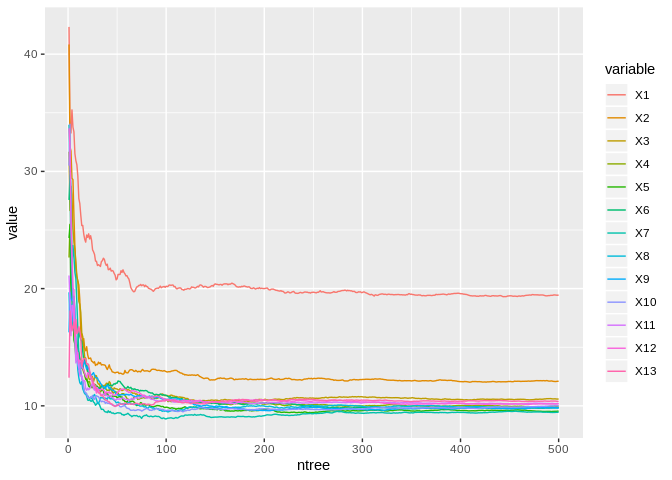
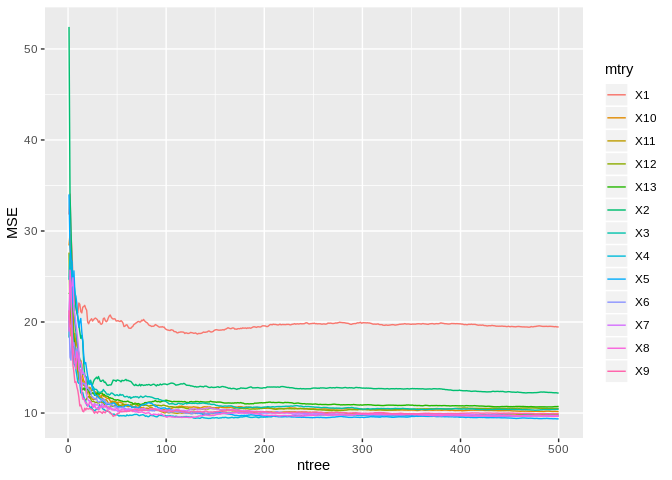
finished problem 8

diff --git a/ch8/ch8_exercises.md b/ch8/ch8_exercises.md
@@ -6,9 +6,18 @@ January 6, 2019
 ``` r
 library(tidyverse)
 library(gbm)
+library(tree)
 library(randomForest)
 library(ISLR)
 library(MASS)
+```
+
+MSE function
+
+``` r
+MSE <- function(x,y){
+    mean((x - y)^2)
+}
 ```
 
 Applied
@@ -21,7 +30,7 @@ rf_bos <- randomForest(medv~., Boston, ntree=500, mtry=13, importance=T)
 plot(rf_bos)
 ```
 
-![](ch8_exercises_files/figure-markdown_github/unnamed-chunk-2-1.png)
+![](ch8_exercises_files/figure-markdown_github/unnamed-chunk-3-1.png)
 
 So I tried for a good 45 minutes to do this in a for loop and as a function but no luck. The output of randomForest can't be stored in a data.frame.
 
@@ -43,19 +52,19 @@ head(mse)
 ```
 
     ##         X1       X2       X3       X4       X5       X6       X7       X8
-    ## 1 42.32633 40.82609 31.67636 22.65098 24.31935 27.56375 33.98095 19.68960
-    ## 2 33.49513 32.09343 26.66919 25.48647 25.44164 29.66825 30.05285 16.67828
-    ## 3 33.27780 31.73664 28.72119 23.27853 19.16801 22.87034 28.54448 17.18458
-    ## 4 35.24469 29.41262 28.02290 19.28510 20.00139 18.97133 22.04812 18.64893
-    ## 5 33.78076 29.30297 25.15037 18.81083 18.70354 16.64035 23.67574 16.81549
-    ## 6 33.37191 26.29239 23.96572 17.26571 15.58780 17.01894 22.71426 16.77705
+    ## 1 31.80872 52.42473 18.28603 24.63975 34.02078 20.82501 20.17224 18.95064
+    ## 2 34.04987 34.21041 25.00775 27.40268 28.23370 16.13734 23.61439 25.68817
+    ## 3 29.75503 30.18289 25.98576 22.67575 26.81627 15.80643 23.87533 24.22175
+    ## 4 27.75409 26.00290 23.14605 20.54429 26.63956 18.48176 24.00164 19.34626
+    ## 5 24.88952 24.34133 21.63823 18.32254 22.09555 17.41297 24.85599 17.26936
+    ## 6 24.20768 24.24671 21.86109 15.38011 25.61217 17.75042 21.37371 16.42574
     ##         X9      X10      X11      X12      X13 ntree
-    ## 1 16.26842 30.49106 21.12034 33.67282 12.40003     1
-    ## 2 19.69358 34.02152 18.97160 31.97064 18.08671     2
-    ## 3 19.17191 25.04710 15.98070 26.12923 17.28112     3
-    ## 4 19.01576 22.25504 18.57428 22.89227 16.39696     4
-    ## 5 19.00369 19.29042 18.51711 20.04980 16.71555     5
-    ## 6 19.34383 16.84488 17.24681 19.92728 17.14615     6
+    ## 1 21.27642 28.41122 20.69694 27.62397 23.07290     1
+    ## 2 19.46439 29.64176 18.47396 20.20069 23.29881     2
+    ## 3 19.63887 23.15113 24.18391 22.26955 23.33454     3
+    ## 4 17.95513 23.11587 19.66064 18.61263 21.92456     4
+    ## 5 15.27002 21.50509 19.29295 18.50928 18.82777     5
+    ## 6 14.47486 18.76671 18.32341 17.65219 18.09505     6
 
 Creates a graph of MSE for each mtry.
 
@@ -65,12 +74,12 @@ head(long)
 ```
 
     ##   ntree mtry    value
-    ## 1     1   X1 42.32633
-    ## 2     2   X1 33.49513
-    ## 3     3   X1 33.27780
-    ## 4     4   X1 35.24469
-    ## 5     5   X1 33.78076
-    ## 6     6   X1 33.37191
+    ## 1     1   X1 31.80872
+    ## 2     2   X1 34.04987
+    ## 3     3   X1 29.75503
+    ## 4     4   X1 27.75409
+    ## 5     5   X1 24.88952
+    ## 6     6   X1 24.20768
 
 ``` r
 ggplot(long, aes(ntree, value, color=mtry)) +
@@ -78,7 +87,7 @@ ggplot(long, aes(ntree, value, color=mtry)) +
     ylab('MSE')
 ```
 
-![](ch8_exercises_files/figure-markdown_github/unnamed-chunk-4-1.png)
+![](ch8_exercises_files/figure-markdown_github/unnamed-chunk-5-1.png) MSE seems lo level off after 150 trees. X1 has the highest MSE of the mtry while X9 has the lowest minimum MSE.
 
 df conversion done with the reshape2 package.
 
@@ -102,4 +111,237 @@ ggplot(df, aes(ntree, value)) +
     geom_line(aes(color=variable))
 ```
 
-![](ch8_exercises_files/figure-markdown_github/unnamed-chunk-5-1.png)
+![](ch8_exercises_files/figure-markdown_github/unnamed-chunk-6-1.png)
+
+### 8
+
+1.  Training data is 3/4 of the Carseats data.
+
+``` r
+set.seed(5)
+
+train <- sample(1:nrow(Carseats), (3/4)*nrow(Carseats))
+test <- slice(Carseats, -train)
+train <- Carseats[train,]
+```
+
+1.  
+
+``` r
+reg_tree <- tree(Sales~., train)
+summary(reg_tree)
+```
+
+    ## 
+    ## Regression tree:
+    ## tree(formula = Sales ~ ., data = train)
+    ## Variables actually used in tree construction:
+    ## [1] "ShelveLoc"   "Price"       "Age"         "Advertising" "CompPrice"  
+    ## [6] "Population"  "Income"     
+    ## Number of terminal nodes:  20 
+    ## Residual mean deviance:  2.524 = 706.6 / 280 
+    ## Distribution of residuals:
+    ##    Min. 1st Qu.  Median    Mean 3rd Qu.    Max. 
+    ## -3.9850 -0.9850 -0.0560  0.0000  0.9744  5.0090
+
+Plot of tree
+
+``` r
+plot(reg_tree)
+text(reg_tree, cex=0.8, pretty=0)
+```
+
+![](ch8_exercises_files/figure-markdown_github/unnamed-chunk-9-1.png)
+
+MSE is around 4.57.
+
+``` r
+pred_carseats <- predict(reg_tree, test)
+MSE(pred_carseats, test$Sales)
+```
+
+    ## [1] 4.573537
+
+1.  Looks like the best tree size is 9.
+
+``` r
+set.seed(10)
+
+cv_tree <- cv.tree(reg_tree, FUN=prune.tree)
+cv_tree
+```
+
+    ## $size
+    ##  [1] 20 19 18 17 16 15 14 13 12 11 10  9  8  7  6  5  4  3  2  1
+    ## 
+    ## $dev
+    ##  [1] 1449.207 1483.818 1474.311 1501.462 1504.789 1510.086 1509.923
+    ##  [8] 1519.623 1514.920 1523.643 1518.617 1551.506 1657.301 1708.545
+    ## [15] 1718.140 1676.093 1845.327 1832.987 1936.100 2455.037
+    ## 
+    ## $k
+    ##  [1]      -Inf  24.97477  26.02050  29.80899  30.42954  30.46967  30.78367
+    ##  [8]  33.22207  39.05502  42.75892  45.93394  49.27407  61.42385  69.35358
+    ## [15]  71.05762  84.24680 120.97760 125.57046 272.16709 528.71924
+    ## 
+    ## $method
+    ## [1] "deviance"
+    ## 
+    ## attr(,"class")
+    ## [1] "prune"         "tree.sequence"
+
+``` r
+par(mfrow=c(1,2))
+plot(cv_tree$size, cv_tree$dev, type='b')
+plot(cv_tree$k, cv_tree$dev, type='b')
+```
+
+![](ch8_exercises_files/figure-markdown_github/unnamed-chunk-11-1.png)
+
+Running prune.tree with best=9
+
+``` r
+pruned <- prune.tree(reg_tree, best=9)
+
+plot(pruned)
+text(pruned, pretty=0)
+```
+
+![](ch8_exercises_files/figure-markdown_github/unnamed-chunk-12-1.png)
+
+Calculating MSE of pruned tree. We get a MSE of 3.74, which is roughly 0.8 lower than a reg tree. Pruning the tree does decrease the MSE.
+
+``` r
+pred_pruned <- predict(pruned, test)
+MSE(pred_pruned, test$Sales)
+```
+
+    ## [1] 3.740164
+
+1.  So I just need to remeber that I need to use the randomForest() where mtry = *p* in order to only do bagging.
+
+``` r
+set.seed(1)
+
+bag_car <- randomForest(Sales~., train, mtry=10, importance=TRUE)
+bag_car
+```
+
+    ## 
+    ## Call:
+    ##  randomForest(formula = Sales ~ ., data = train, mtry = 10, importance = TRUE) 
+    ##                Type of random forest: regression
+    ##                      Number of trees: 500
+    ## No. of variables tried at each split: 10
+    ## 
+    ##           Mean of squared residuals: 2.651691
+    ##                     % Var explained: 67.17
+
+``` r
+importance(bag_car)
+```
+
+    ##                %IncMSE IncNodePurity
+    ## CompPrice   31.5102047    258.198822
+    ## Income       5.7282685    111.437402
+    ## Advertising 23.1289063    215.273668
+    ## Population   0.1408167     85.478719
+    ## Price       61.3567059    720.401178
+    ## ShelveLoc   73.1567053    626.649235
+    ## Age         24.5676254    247.593006
+    ## Education    4.3458187     66.635900
+    ## Urban       -1.4207142      9.113515
+    ## US           4.4489013     19.060855
+
+We get a test MSE of 1.93. Which is lower than the training MSE of 2.65. Price, ShelveLoc & CompPrice are the most importance variables.
+
+``` r
+pred_bag <- predict(bag_car, test)
+
+MSE(pred_bag, test$Sales)
+```
+
+    ## [1] 1.932099
+
+1.  
+
+``` r
+set.seed(2)
+
+rf_car2 <- randomForest(Sales~., train, mtry=5, importance=T)
+rf_car2
+```
+
+    ## 
+    ## Call:
+    ##  randomForest(formula = Sales ~ ., data = train, mtry = 5, importance = T) 
+    ##                Type of random forest: regression
+    ##                      Number of trees: 500
+    ## No. of variables tried at each split: 5
+    ## 
+    ##           Mean of squared residuals: 2.77816
+    ##                     % Var explained: 65.6
+
+``` r
+importance(rf_car2)
+```
+
+    ##                %IncMSE IncNodePurity
+    ## CompPrice   18.4376338     226.57808
+    ## Income       4.6196814     149.26851
+    ## Advertising 19.3707023     236.91850
+    ## Population  -0.2817878     121.65108
+    ## Price       52.2657149     625.61383
+    ## ShelveLoc   52.0158350     579.80128
+    ## Age         18.0713290     265.59039
+    ## Education    2.4538607      88.34015
+    ## Urban       -1.4711313      13.41200
+    ## US           5.6914764      30.39115
+
+``` r
+pred_rf2 <- predict(rf_car2, test)
+MSE(pred_rf2, test$Sales)
+```
+
+    ## [1] 2.045975
+
+``` r
+rf_carsqrt <- randomForest(Sales~., train, mtry=sqrt(10), importance=T)
+
+rf_carsqrt
+```
+
+    ## 
+    ## Call:
+    ##  randomForest(formula = Sales ~ ., data = train, mtry = sqrt(10),      importance = T) 
+    ##                Type of random forest: regression
+    ##                      Number of trees: 500
+    ## No. of variables tried at each split: 3
+    ## 
+    ##           Mean of squared residuals: 3.143607
+    ##                     % Var explained: 61.08
+
+``` r
+importance(rf_carsqrt)
+```
+
+    ##               %IncMSE IncNodePurity
+    ## CompPrice   13.183026     212.86668
+    ## Income       3.344561     176.86179
+    ## Advertising 15.045662     227.23708
+    ## Population  -1.460400     159.40722
+    ## Price       41.936327     546.49453
+    ## ShelveLoc   46.626280     499.43002
+    ## Age         16.641022     291.16673
+    ## Education    2.783632     108.93297
+    ## Urban       -3.153515      19.12951
+    ## US           5.871049      43.48906
+
+Random forest was run twice, once with mtry=*p*/2 and again with mtry=$\\sqrt{p}$. The MSE of *p*/2 is 2.05 and the MSE of $\\sqrt{p}$ is 2.46. Both are a increase in MSE over bagging. Both rf show very similar importance, with Price and Shelveloc being the most importance predictors for both, but then *p*/2 chooses CompPrice as the third most important predictor while *s**q**r**t**p* chooses Age.
+
+``` r
+pred_rfsqrt <- predict(rf_carsqrt, test)
+MSE(pred_rfsqrt, test$Sales)
+```
+
+    ## [1] 2.455962
